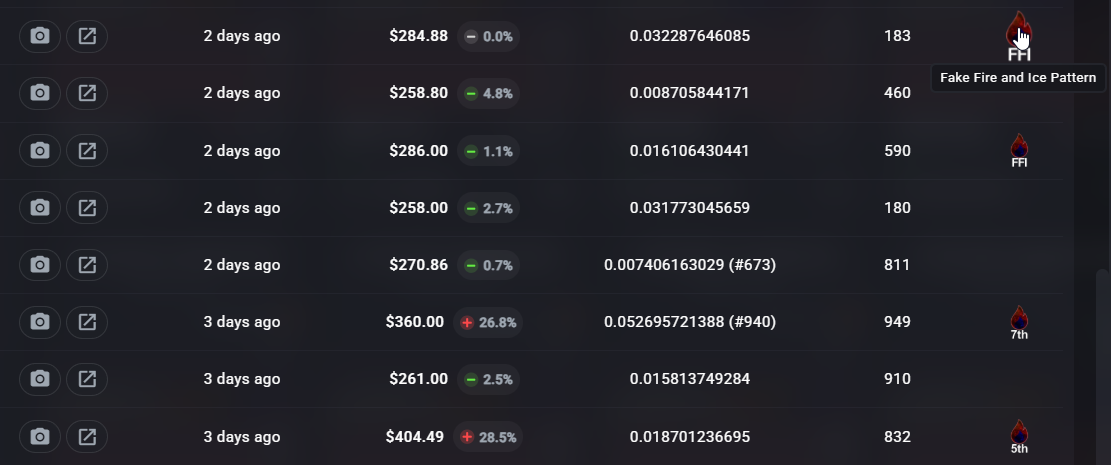
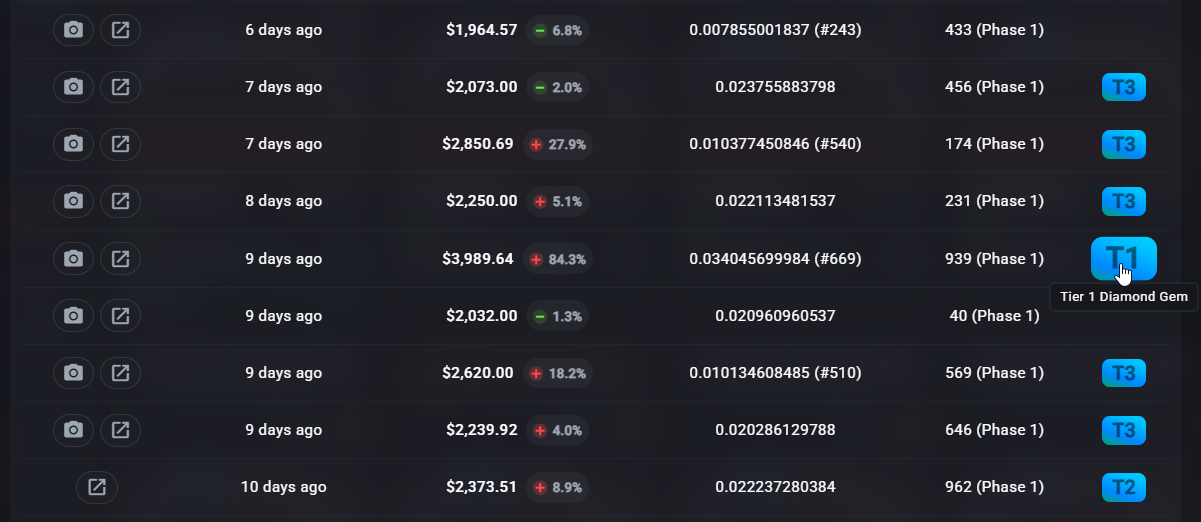
v2.4.0
Added:
Bayonet Green Galaxy,
Talon Doppler P4,
Updated:
Bayonet Max Green,

Talon Doppler P3 (Fake Black pearl)
Fixed:
Butterfly gamma doppler BTA diamond badge color fix.
Some README changes

diff --git a/src/patterns.js b/src/patterns.js
@@ -245,21 +245,37 @@ const PATTERNS = {
       labels: GAMMA_DOPPLER_P2_LABELS,
       tiers: {
         T1: [
-          15, 35, 159, 200, 239, 261, 350, 355, 474, 495, 565, 585, 603, 623,
-          682, 704, 748, 755, 833, 986, 987,
+          15, 35, 36, 81, 92, 99, 100, 120, 131, 144, 180, 225, 247, 264, 288,
+          305, 319, 338, 366, 391, 418, 420, 426, 474, 495, 500, 503, 505, 563,
+          581, 609, 618, 622, 623, 682, 704, 755, 768, 771, 779, 833, 882, 906,
+          937, 945, 965, 985,
         ],
         T2: [
-          19, 25, 55, 56, 86, 101, 134, 144, 192, 199, 225, 245, 264, 305, 306,
-          316, 317, 346, 349, 371, 410, 434, 443, 501, 503, 544, 560, 562, 581,
-          618, 620, 625, 634, 635, 644, 671, 707, 713, 778, 814, 847, 877, 927,
-          938, 970, 973,
+          25, 26, 40, 55, 56, 70, 74, 86, 123, 124, 128, 192, 199, 200, 215,
+          239, 245, 257, 267, 270, 316, 322, 331, 346, 350, 363, 367, 460, 501,
+          524, 543, 565, 615, 620, 635, 643, 707, 713, 724, 775, 786, 836, 842,
+          847, 879, 880, 932, 934, 938, 957,
         ],
         T3: [
-          13, 36, 65, 148, 174, 185, 207, 214, 219, 258, 264, 301, 330, 343,
-          367, 379, 394, 415, 439, 451, 479, 492, 504, 512, 532, 549, 584, 616,
-          617, 641, 645, 654, 676, 694, 716, 738, 741, 757, 760, 843, 870, 889,
-          903, 920, 945, 947, 967, 45, 118,
+          19, 38, 51, 52, 69, 82, 85, 91, 97, 133, 207, 214, 297, 327, 347,
+          365, 379, 533, 548, 567, 613, 619, 625, 629, 641, 644, 662, 700, 718,
+          722, 729, 741, 765, 778, 797, 799, 814, 819, 823, 830, 831, 837, 850,
+          870, 877, 888, 889, 900, 905, 950, 963, 964, 970,
         ],
+        T4: [
+          2, 10, 50, 53, 61, 65, 67, 95, 114, 118, 139, 140, 175, 228, 251, 255,
+          271, 272, 291, 294, 300, 301, 318, 343, 357, 390, 414, 427, 437, 439,
+          470, 475, 491, 518, 554, 556, 573, 604, 617, 661, 676, 695, 734, 735,
+          738, 801, 828, 829, 841, 903, 904, 912, 947, 967, 978, 996,
+        ],
+        T1_Galaxy: [
+          17, 101, 122, 127, 135, 158, 159, 169, 186, 197, 198, 208, 219, 242, 261, 263, 275, 320, 330, 339, 362, 407, 417, 456, 467, 472, 476, 478, 497, 509, 534, 542, 557, 562, 585, 669, 671, 679, 681, 692, 708, 748, 788, 796, 862, 952, 987
+        ],
+        T2_Galaxy: [39, 44, 75, 77, 83, 115, 132, 221, 231, 237, 244, 248, 279, 306, 317, 349, 352, 355, 371, 386, 398, 410, 434, 469, 484, 490, 502, 510, 519, 523, 544, 558, 603, 634, 650, 675, 711, 721, 731, 739, 772, 784, 855, 871, 883, 890, 926, 927, 983, 986
+        ],
+        T3_Galaxy: [7, 13, 59, 72, 119, 134, 153, 166, 190, 194, 209, 259, 265, 286, 290, 360, 374, 383, 408, 409, 419, 423, 432, 443, 498, 526, 531, 595, 600, 638, 646, 659, 684, 694, 715, 720, 750, 816, 839, 857, 859, 861, 893, 896, 913, 919, 928, 935, 951, 954, 969, 973, 999
+        ],
+        T4_Galaxy: [20, 24, 31, 49, 66, 88, 106, 113, 116, 151, 160, 174, 184, 189, 193, 218, 220, 226, 235, 246, 250, 284, 303, 325, 369, 373, 394, 425, 450, 464, 477, 480, 492, 504, 529, 551, 560, 574, 594, 610, 616, 627, 680, 689, 699, 730, 744, 776, 783, 820, 843, 852, 865, 929, 992, 998]
       },
     },
     // Gamma Doppler P3
@@ -1746,8 +1762,7 @@ const PATTERNS = {
       },
       labels: GAMMA_DOPPLER_P2_LABELS,
       tiers: {
-        T1: [
-          16, 48, 126, 129, 146, 152, 182, 204, 230, 241, 252, 281, 292, 332,
+        T1: [16, 48, 126, 129, 146, 152, 182, 204, 230, 241, 252, 281, 292, 332,
           344, 359, 393, 412, 457, 522, 541, 578, 602, 607, 628, 649, 652, 660,
           673, 685, 688, 701, 705, 736, 743, 773, 777, 780, 787, 792, 832, 874,
           908, 918, 923, 988, 994,
@@ -2564,41 +2579,35 @@ const PATTERNS = {
       },
       labels: GAMMA_DOPPLER_P2_LABELS,
       tiers: {
+        R1: [
+          339, 681, 407, 456, 509, 755, 622, 366, 319, 934, 643, 123, 543, 775,
+          322, 270, 267,
+        ],
         T1: [
-          10, 50, 61, 65, 67, 95, 139, 140, 167, 175, 228, 240, 251, 255, 271,
-          298, 300, 301, 318, 343, 357, 390, 414, 427, 437, 453, 470, 475, 491,
-          518, 554, 556, 573, 584, 596, 604, 617, 661, 676, 695, 729, 734, 735,
-          738, 801, 828, 829, 837, 903, 904, 912, 946, 947, 967, 978, 996,
+          61, 95, 123, 135, 139, 267, 270, 300, 319, 320, 322, 363, 366, 339, 407,
+          437, 456, 478, 509, 534, 543, 596, 622, 643, 662, 681, 704, 735, 755,
+          775, 801, 823, 829, 837, 884, 901, 905, 934,
         ],
         T2: [
-          18, 23, 37, 57, 63, 78, 79, 104, 111, 114, 117, 118, 157, 163, 176,
-          179, 187, 272, 273, 277, 289, 293, 299, 312, 323, 342, 376, 382, 389,
-          392, 416, 421, 431, 446, 487, 512, 528, 549, 588, 592, 633, 645, 654,
-          658, 666, 697, 737, 740, 752, 757, 758, 760, 769, 774, 782, 802, 804,
-          806, 808, 821, 835, 841, 851, 863, 864, 866, 884, 885, 886, 895, 901,
-          902, 916, 920, 921, 924, 933, 942, 955, 974, 984, 990, 991, 993, 995,
+          50, 51, 53, 57, 63, 69, 78, 114, 163, 175, 240, 312, 318, 323, 327, 347,
+          365, 414, 453, 475, 533, 567, 573, 604, 619, 633, 729, 737, 768, 797,
+          804, 819, 830, 831, 850, 864, 902, 963, 978,
         ],
         T3: [
-          6, 12, 21, 22, 30, 33, 43, 47, 53, 64, 73, 76, 89, 94, 103, 109, 130,
-          145, 154, 155, 161, 168, 172, 173, 191, 210, 211, 212, 223, 227, 249,
-          260, 276, 282, 283, 285, 291, 294, 295, 302, 324, 336, 361, 377, 381,
-          424, 429, 430, 433, 440, 442, 458, 466, 481, 488, 508, 511, 513, 514,
-          525, 536, 538, 564, 566, 568, 586, 587, 612, 665, 677, 686, 687, 698,
-          719, 749, 759, 762, 790, 798, 815, 860, 875, 878, 887, 891, 898, 915,
-          940, 953, 960, 979,
+          18, 23, 30, 47, 73, 89, 103, 109, 111, 154, 155, 161, 168, 191, 212, 260,
+          273, 276, 289, 376, 377, 392, 416, 421, 429, 431, 440, 442, 446, 481,
+          513, 568, 586, 658, 697, 719, 740, 749, 752, 762, 774, 782, 798, 860,
+          886, 898, 921, 933, 942, 984,
         ],
         T4: [
-          2, 11, 29, 46, 80, 84, 107, 136, 137, 141, 147, 150, 181, 224, 229,
-          236, 278, 308, 313, 314, 345, 358, 375, 395, 396, 399, 401, 428, 435,
-          447, 455, 462, 465, 482, 486, 572, 597, 599, 608, 639, 640, 657, 690,
-          703, 712, 726, 745, 751, 754, 781, 789, 793, 800, 813, 824, 827, 838,
-          840, 849, 856, 872, 881, 914, 917, 936, 956, 968,
+          11, 84, 130, 136, 137, 141, 145, 150, 172, 173, 181, 223, 249, 278, 282,
+          308, 326, 375, 380, 396, 401, 462, 465, 486, 521, 527, 536, 575, 599,
+          608, 636, 648, 651, 664, 665, 686, 690, 726, 742, 763, 793, 800, 827,
+          834, 840, 848, 849, 872, 891, 910, 917, 936, 943, 956, 961,
         ],
-        BTA: [
-          34, 41, 87, 93, 105, 201, 205, 256, 326, 341, 348, 380, 403, 422, 439,
-          449, 468, 494, 517, 520, 521, 527, 550, 571, 575, 576, 577, 583, 601,
-          636, 648, 651, 664, 668, 714, 742, 747, 763, 807, 825, 834, 848, 892,
-          897, 910, 911, 925, 943, 944, 961, 975, 981,
+        Fake: [
+          26, 92, 122, 169, 186, 242, 247, 288, 338, 426, 467, 497, 557, 669, 679,
+          779, 842, 952, 957, 965, 985,
         ],
       },
     },
@@ -3602,6 +3611,32 @@ const PATTERNS = {
           489, 515, 555, 569, 570, 593, 606, 624, 630, 663, 667, 670, 723, 812,
           822, 845, 846, 894, 899, 907,
         ],
+        Fake_BP: [
+          34, 41, 87, 93, 105, 205, 256, 326, 341, 348, 380, 403, 422, 449,
+          468, 494, 517, 520, 521, 527, 550, 571, 575, 576, 577, 583, 601, 636,
+          648, 651, 664, 668, 714, 742, 763, 807, 834, 848, 892, 897, 910, 911,
+          925, 943, 944, 961, 975,
+        ],
+      },
+    },
+    // Doppler P4
+    855: {
+      badge: {
+        type: "gradient",
+        fade_type: doppler_P4,
+        badge_type: "doppler-P4",
+      },
+      labels: DOPPLER_P4_LABELS,
+      tiers: {
+        T1: [
+          34, 41, 87, 93, 105, 205, 256, 326, 341, 348, 380, 403, 422, 449, 468, 494, 517, 520, 521, 527, 550, 571, 575, 576, 577, 583, 601, 636, 648, 651, 664, 668, 714, 742, 763, 807, 834, 848, 892, 897, 910, 911, 925, 943, 944, 961, 975,
+        ],
+        T2: [
+          11, 29, 46, 84, 107, 136, 137, 141, 147, 150, 201, 224, 236, 278, 308, 345, 375, 395, 396, 399, 401, 428, 455, 465, 486, 597, 599, 639, 657, 690, 703, 712, 745, 747, 751, 754, 781, 789, 793, 800, 824, 825, 827, 838, 840, 849, 856, 872, 914, 936, 956, 968, 981
+        ],
+        T3: [21, 30, 43, 64, 73, 80, 89, 130, 145, 168, 172, 173, 181, 211, 223, 229, 249, 260, 282, 283, 295, 313, 314, 358, 377, 381, 430, 435, 447, 458, 462, 466, 482, 488, 508, 511, 514, 525, 536, 566, 568, 572, 608, 640, 665, 677, 686, 726, 749, 759, 798, 813, 881, 891, 917, 940],
+        T4: [6, 12, 22, 33, 37, 47, 76, 94, 103, 109, 154, 155, 161, 191, 210, 212, 227, 276, 285, 293, 302, 324, 336, 361, 392, 416, 424, 429, 433, 440, 442, 446, 481, 487, 513, 538, 564, 586, 587, 612, 687, 698, 719, 752, 762, 782, 790, 815, 860, 863, 875, 878, 887, 898, 915, 953, 960, 979],
+        BTA: [8, 23, 79, 104, 117, 157, 176, 179, 187, 277, 289, 376, 389, 528, 645, 658, 740, 757, 758, 769, 774, 808, 821, 835, 851, 866, 886, 895, 933, 955, 974, 984, 990, 993, 995]
       },
     },
     // Marble Fade

diff --git a/src/gradients.js b/src/gradients.js
@@ -50,11 +50,11 @@ const gamma_doppler_P1 = {
   },
   T1: {
     gradient: gamma_doppler_P1_gem,
-    position: "100%",
+    position: "90%",
   },
   T2: {
     gradient: gamma_doppler_P1_gem,
-    position: "80%",
+    position: "75%",
   },
   T3: {
     gradient: gamma_doppler_P1_gem,
@@ -63,6 +63,10 @@ const gamma_doppler_P1 = {
   T4: {
     gradient: gamma_doppler_P1_gem,
     position: "40%",
+  },
+  BTA: {
+    gradient: gamma_doppler_P1_gem,
+    position: "25%",
   },
   T1_Tip: {
     gradient: gamma_doppler_P1_gem,
@@ -129,6 +133,10 @@ const gamma_doppler_P1 = {
 const gamma_doppler_P2_green =
   "linear-gradient(to right, #c8f5c8, #6dbf6d, #2e8b2e, #1a5c1a)";
 const gamma_doppler_P2 = {
+  R1: {
+    gradient: gamma_doppler_P2_green,
+    position: "100%",
+  },
   T1: {
     gradient: gamma_doppler_P2_green,
     position: "100%",
@@ -145,9 +153,29 @@ const gamma_doppler_P2 = {
     gradient: gamma_doppler_P2_green,
     position: "40%",
   },
+  Fake: {
+    gradient: gamma_doppler_P2_green,
+    position: "30%",
+  },
   BTA: {
     gradient: gamma_doppler_P2_green,
     position: "20%",
+  },
+  T1_Galaxy: {
+    gradient: gamma_doppler_P2_green,
+    position: "90%",
+  },
+  T2_Galaxy: {
+    gradient: gamma_doppler_P2_green,
+    position: "75%",
+  },
+  T3_Galaxy: {
+    gradient: gamma_doppler_P2_green,
+    position: "50%",
+  },
+  T4_Galaxy: {
+    gradient: gamma_doppler_P2_green,
+    position: "30%",
   },
 };
 
@@ -429,6 +457,10 @@ const doppler_P3 = {
   BTA_MaxFBP: {
     gradient: doppler_P3_fbp,
     position: "20%",
+  },
+  Fake_BP: {
+    gradient: doppler_P3_fbp,
+    position: "90%",
   },
 };
 

diff --git a/src/labels.js b/src/labels.js
@@ -49,11 +49,17 @@ const GAMMA_DOPPLER_P1_LABELS = {
 };
 
 const GAMMA_DOPPLER_P2_LABELS = {
+  R1: "High Tier Max Green\n(Fake Emerald)",
   T1: "Tier 1 Max Green\n(Fake Emerald)",
   T2: "Tier 2 Max Green\n(Fake Emerald)",
   T3: "Tier 3 Max Green\n(Fake Emerald)",
   T4: "Tier 4 Max Green\n(Fake Emerald)",
+  Fake: "Fake Max Green",
   BTA: "Better Than Average Green",
+  T1_Galaxy: "Tier 1 Green Galaxy",
+  T2_Galaxy: "Tier 2 Green Galaxy",
+  T3_Galaxy: "Tier 3 Green Galaxy",
+  T4_Galaxy: "Tier 4 Green Galaxy",
 };
 
 const GAMMA_DOPPLER_P3_LABELS = {
@@ -155,6 +161,7 @@ const DOPPLER_P3_LABELS = {
   T3_MaxFBP: "Tier 3 Max Fake Black Pearl",
   T4_MaxFBP: "Tier 4 Max Fake Black Pearl",
   BTA_MaxFBP: "Better Than Average Fake Black Pearl",
+  Fake_BP: "Fake Black Pearl",
 };
 
 const DOPPLER_P4_LABELS = {
